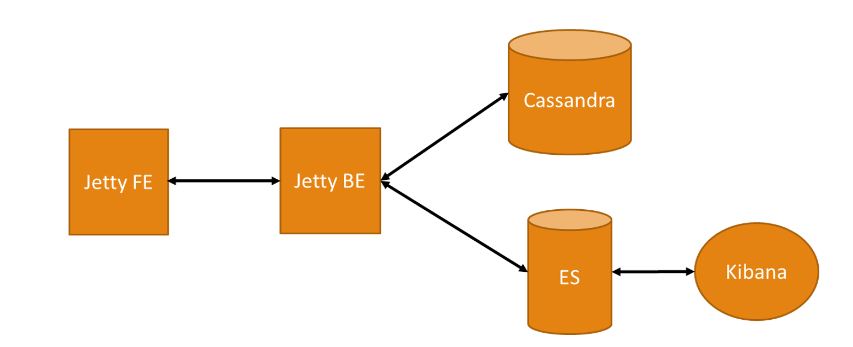
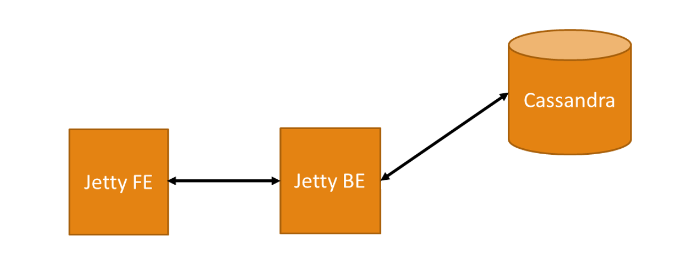
R6 release notes and documentation update
Issue-ID: SDC-2793

diff --git a/docs/release-notes.rst b/docs/release-notes.rst
@@ -5,6 +5,132 @@ Release Notes
 =============
 
 
+Version: 1.6.4
+==============
+
+:Release Date: 2020-05-14
+
+SDC SDKs Versions
+-----------------
+
+-  sdc-distribution-client
+
+   :Version: 1.4.0
+
+-  sdc-tosca
+
+   :Version: 1.6.2
+
+Release Purpose
+----------------
+
+
+**Epics**
+
+*  `SDC-1607 <https://jira.onap.org/browse/SDC-1607>`_ - Logging alignemnet to 1.2 logging spec
+*  `SDC-1970 <https://jira.onap.org/browse/SDC-1970>`_ - Supporting PNF package onboarding
+*  `SDC-2011 <https://jira.onap.org/browse/SDC-2011>`_ - Design Studio (DCAE-DS) support for 3GPP PM Mapper
+*  `SDC-2378 <https://jira.onap.org/browse/SDC-2378>`_ - ONAP as Third Party Domain Manager - Import Third Party Catalog in SDC
+*  `SDC-2415 <https://jira.onap.org/browse/SDC-2415>`_ - AAF integration of HTTPS certificates
+*  `SDC-2482 <https://jira.onap.org/browse/SDC-2482>`_ - Add VSP Compliance and Verification Check feature Phase 2
+*  `SDC-2555 <https://jira.onap.org/browse/SDC-2555>`_ - SDC support of Network Slicing Demo in Frankfurt
+*  `SDC-2598 <https://jira.onap.org/browse/SDC-2598>`_ - Frankfurt release planning milestone
+*  `SDC-2643 <https://jira.onap.org/browse/SDC-2643>`_ - Collapsing Roles / Role consolidation
+*  `SDC-2683 <https://jira.onap.org/browse/SDC-2683>`_ - Functionality and API Freeze
+*  `SDC-2742 <https://jira.onap.org/browse/SDC-2742>`_ - Code Freeze
+*  `SDC-2787 <https://jira.onap.org/browse/SDC-2787>`_ - Release Candidate 0 Integration and Test
+
+**Stories**
+
+*  `SDC-1952 <https://jira.onap.org/browse/SDC-1952>`_ - 9 artifacts 9 definition is missing in the exported csar 9 s VDU node
+*  `SDC-2095 <https://jira.onap.org/browse/SDC-2095>`_ - R6 5G U/C SDC: PM Dictionary GUI Display from PNF Onboarded Package
+*  `SDC-2138 <https://jira.onap.org/browse/SDC-2138>`_ - SDC docker runs as non root
+*  `SDC-2216 <https://jira.onap.org/browse/SDC-2216>`_ - Security improvements
+*  `SDC-2382 <https://jira.onap.org/browse/SDC-2382>`_ - Introduce a new category for the 3rd party Service
+*  `SDC-2383 <https://jira.onap.org/browse/SDC-2383>`_ - Expose the API for service creation as an External API
+*  `SDC-2385 <https://jira.onap.org/browse/SDC-2385>`_ - Introduce property mapping rules to define parent-child mapping for properties added in service definition
+*  `SDC-2393 <https://jira.onap.org/browse/SDC-2393>`_ - CBA association enhancement in PNFD to support API decision
+*  `SDC-2394 <https://jira.onap.org/browse/SDC-2394>`_ - Support custom PNF workflow design
+*  `SDC-2405 <https://jira.onap.org/browse/SDC-2405>`_ - Add workflow-designer secure frontend-backend communication
+*  `SDC-2417 <https://jira.onap.org/browse/SDC-2417>`_ - SDC must work in HTTPS mode in all interfaces
+*  `SDC-2456 <https://jira.onap.org/browse/SDC-2456>`_ - Optimize usage of repositories
+*  `SDC-2559 <https://jira.onap.org/browse/SDC-2559>`_ - Need a getter method to return Input list from getEntity API
+*  `SDC-2561 <https://jira.onap.org/browse/SDC-2561>`_ - Transformation of customized Node Types for PNFD
+*  `SDC-2562 <https://jira.onap.org/browse/SDC-2562>`_ - Package Security - support signing of individual artifacts
+*  `SDC-2582 <https://jira.onap.org/browse/SDC-2582>`_ - CBA association enhancement in VNFD to support API decision
+*  `SDC-2584 <https://jira.onap.org/browse/SDC-2584>`_ - SDC-BE - create unique identifier for each execution of test cases.
+*  `SDC-2585 <https://jira.onap.org/browse/SDC-2585>`_ - Refresh option in the onboarding validation page
+*  `SDC-2589 <https://jira.onap.org/browse/SDC-2589>`_ - Onboard PNF software version
+*  `SDC-2590 <https://jira.onap.org/browse/SDC-2590>`_ - Upgrade To Cassandra 3
+*  `SDC-2629 <https://jira.onap.org/browse/SDC-2629>`_ - SDC UI button for user to request VTP to create \& upload a OVP tar.gz file to OVP Portal
+*  `SDC-2631 <https://jira.onap.org/browse/SDC-2631>`_ - SDC Meta Data for CDS Integration
+*  `SDC-2638 <https://jira.onap.org/browse/SDC-2638>`_ - Upgrade Portal SDK to latest (2.6.0)
+*  `SDC-2639 <https://jira.onap.org/browse/SDC-2639>`_ - Align logging to Onap-ELS 2019.11
+*  `SDC-2640 <https://jira.onap.org/browse/SDC-2640>`_ - Handle onboard ALTER tables to support upgrade
+*  `SDC-2644 <https://jira.onap.org/browse/SDC-2644>`_ - Collapsing Roles – UI changes
+*  `SDC-2645 <https://jira.onap.org/browse/SDC-2645>`_ - From Certified to Distributed - BE
+*  `SDC-2650 <https://jira.onap.org/browse/SDC-2650>`_ - Perform Software Composition Analysis - Vulnerability tables
+*  `SDC-2651 <https://jira.onap.org/browse/SDC-2651>`_ - Tosca Parser - getVFModule - new API
+*  `SDC-2652 <https://jira.onap.org/browse/SDC-2652>`_ - Document current upgrade component Strategy
+*  `SDC-2656 <https://jira.onap.org/browse/SDC-2656>`_ - add securityUtil code to Onap
+*  `SDC-2685 <https://jira.onap.org/browse/SDC-2685>`_ - Upgrade Node \& npm version
+*  `SDC-2686 <https://jira.onap.org/browse/SDC-2686>`_ - add common-app-logging module
+*  `SDC-2687 <https://jira.onap.org/browse/SDC-2687>`_ - Upgrade sdc-tosca version in main SDC pom
+*  `SDC-2691 <https://jira.onap.org/browse/SDC-2691>`_ - Enhance catalog FE proxy to be able to proxy to any defined plugin
+*  `SDC-2692 <https://jira.onap.org/browse/SDC-2692>`_ - Fix sonar issues
+*  `SDC-2696 <https://jira.onap.org/browse/SDC-2696>`_ - Release sdc-be-common 1.6.0
+*  `SDC-2699 <https://jira.onap.org/browse/SDC-2699>`_ - Increase SDC Code Coverage
+*  `SDC-2703 <https://jira.onap.org/browse/SDC-2703>`_ - Upgrade Node/npm/yarn version for WF-D
+*  `SDC-2724 <https://jira.onap.org/browse/SDC-2724>`_ - Catalog alignment
+*  `SDC-2732 <https://jira.onap.org/browse/SDC-2732>`_ - fix CSIT
+*  `SDC-2733 <https://jira.onap.org/browse/SDC-2733>`_ - remove unnecessary dependencies from pom
+*  `SDC-2758 <https://jira.onap.org/browse/SDC-2758>`_ - Backend configuration file runtime reload
+*  `SDC-2760 <https://jira.onap.org/browse/SDC-2760>`_ - Support import of custom node type name
+*  `SDC-2761 <https://jira.onap.org/browse/SDC-2761>`_ - Backend extensibility
+
+
+Security Notes
+--------------
+
+*Fixed Security Issues*
+
+-  [`OJSI-102 <https://jira.onap.org/browse/OJSI-102>`__\ ] - sdc-fe exposes plain text HTTP endpoint using port 30206
+-  [`OJSI-126 <https://jira.onap.org/browse/OJSI-126>`__\ ] - sdc-wfd-fe exposes plain text HTTP endpoint using port 30256
+-  [`OJSI-127 <https://jira.onap.org/browse/OJSI-127>`__\ ] - sdc-wfd-be exposes plain text HTTP endpoint using port 30257
+
+
+*Known Security Issues*
+
+-  [`OJSI-90 <https://jira.onap.org/browse/OJSI-90>`__\ ] - SDC exposes unprotected API for user creation
+-  [`OJSI-94 <https://jira.onap.org/browse/OJSI-94>`__\ ] - sdc-wfd-fe allows to impersonate any user by setting USER_ID
+
+
+*Known Vulnerabilities in Used Modules*
+
+Quick Links:
+
+- `SDC project page <https://wiki.onap.org/pages/viewpage.action?pageId=6592847>`__
+- `Passing Badge information for SDC <https://bestpractices.coreinfrastructure.org/en/projects/1629>`__
+
+**Known Issues**
+
+	N/A
+
+**Upgrade Notes**
+
+	N/A
+
+**Deprecation Notes**
+
+	N/A
+
+**Other**
+
+	N/A
+
+
+
+
 Version: 1.5.2
 ==============
 

diff --git a/docs/configuration.rst b/docs/configuration.rst
@@ -98,15 +98,6 @@ environment.json
                "https_port": "8445"
             },
 
-            # Elasticsearch configuration
-            "elasticsearch": {
-                "cluster_name": "SDC-ES-",
-                "ES_path_home": "/usr/share/elasticsearch",
-                "ES_path_data": "/usr/share/elasticsearch/data",
-                "num_of_replicas": "0",
-                "num_of_shards": "1"
-            },
-
             # Cassandra configuration
             "cassandra": {
                 "concurrent_reads": "32",
@@ -195,9 +186,6 @@ BE-configuration.yaml
     # The read timeout towards JanusGraph DB when health check is invoked
     janusGraphHealthCheckReadTimeout: 1
 
-    # The interval to try and reconnect to Elasticsearch when it is down during SDC startup
-    esReconnectIntervalInSeconds: 3
-
     # The interval to try and reconnect to UEB health check when it is down during SDC startup
     uebHealthCheckReconnectIntervalInSeconds: 15
 
@@ -273,28 +261,6 @@ BE-configuration.yaml
             - { name: sdccomponent, replicationStrategy: NetworkTopologyStrategy, replicationInfo: ['<%= @DC_NAME %>','<%= @rep_factor %>']}
             - { name: sdcrepository, replicationStrategy: NetworkTopologyStrategy, replicationInfo: ['<%= @DC_NAME %>','<%= @rep_factor %>']}
 
-    # Application-specific settings of ES
-    elasticSearch:
-
-        # Mapping of index prefix to time-based frame. For example, if below is configured:
-        #
-        # - indexPrefix: auditing events
-        #    creationPeriod: minute
-        #
-        # then ES object of type which is mapped to "auditingevents-*" template, and created on 2015-12-23 13:24:54, will enter "auditingevents-2015-12-23-13-24" index.
-        # Another object created on 2015-12-23 13:25:54, will enter "auditingevents-2015-12-23-13-25" index.
-        # If creationPeriod: month, both of the above will enter "auditingevents-2015-12" index.
-        #
-        # PLEASE NOTE: the timestamps are created in UTC/GMT timezone! This is needed so that timestamps will be correctly presented in Kibana.
-        #
-        # Legal values for creationPeriod - year, month, day, hour, minute, none (meaning no time-based behaviour).
-        #
-        # If no creationPeriod is configured for indexPrefix, default behavour is creationPeriod: month.
-        indicesTimeFrequency:
-            - indexPrefix: auditingevents
-              creationPeriod: month
-            - indexPrefix: monitoring_events
-              creationPeriod: month
 
     # Artifact types placeholder
     artifactTypes:
@@ -1366,14 +1332,6 @@ FE-configuration.yaml
         # What is the interval of the statistics collection
         probeIntervalInSeconds: 15
 
-    # Kibana hostname
-    kibanaHost: localhost
-
-    # Kibana http port
-    kibanaPort: 5601
-
-    # Kibana usage protocol
-    kibanaProtocol: http
 
 FE-plugins-configuration.yaml
 *****************************

diff --git a/docs/delivery.rst b/docs/delivery.rst
@@ -16,32 +16,26 @@ Below is a diagram of the SDC project docker containers and the connections betw
     blockdiag delivery {
         node_width = 100;
         orientation = portrait;
-        sdc-elasticsearch[shape = flowchart.database , color = grey]
         sdc-cassandra[shape = flowchart.database , color = grey]
-        sdc-frontend [color = blue]
+        sdc-frontend [color = blue, textcolor="white"]
         sdc-backend [color = yellow]
-        sdc-kibana [color = yellow]
         sdc-onboarding-backend [color = yellow]
         sdc-cassandra-Config [color = orange]
-        sdc-elasticsearch-config [color = orange]
         sdc-backend-config [color = orange]
         sdc-onboarding-init [color = orange]
         sdc-onboarding-init -> sdc-onboarding-backend;
         sdc-cassandra-Config -> sdc-cassandra;
-        sdc-elasticsearch-config -> sdc-elasticsearch;
         sdc-backend-config -> sdc-backend;
         sdc-wss-simulator -> sdc-frontend;
         sdc-frontend -> sdc-backend, sdc-onboarding-backend;
-        sdc-backend -> sdc-elasticsearch, sdc-cassandra;
-        sdc-backend -> sdc-kibana;
-        sdc-kibana -> sdc-backend;
+        sdc-backend -> sdc-cassandra;
         sdc-onboarding-backend -> sdc-cassandra;
         sdc-sanity -> sdc-backend;
         sdc-ui-sanity -> sdc-frontend;
         group deploy_group {
             color = green;
             label = "Application Layer"
-            sdc-backend; sdc-onboarding-backend; sdc-kibana; sdc-frontend;sdc-elasticsearch; sdc-cassandra; sdc-cassandra-Config; sdc-elasticsearch-config; sdc-backend-config; sdc-onboarding-init;
+            sdc-backend; sdc-onboarding-backend; sdc-frontend; sdc-cassandra; sdc-cassandra-Config; sdc-backend-config; sdc-onboarding-init;
         }
         group testing_group {
             color = purple;

diff --git a/docs/architecture.rst b/docs/architecture.rst
@@ -27,11 +27,5 @@ The SDC architecture uses the Jetty server as an application server.
 
 - The **Jetty back end** contains all the logic for the SDC.
 
-SDC uses two storage components: Elastic Search(ES) and Cassandra
-
-- **Elastic Search** is used to index the auditing data received from different operations in the SDC.
-
-  This information can then be analyzed with Kibana. The **Kibana server** enables statistical analysis of the operations done, according to the business logic.
-  
 - **Cassandra** is used to store audit data, artifacts and data model objects.
 
